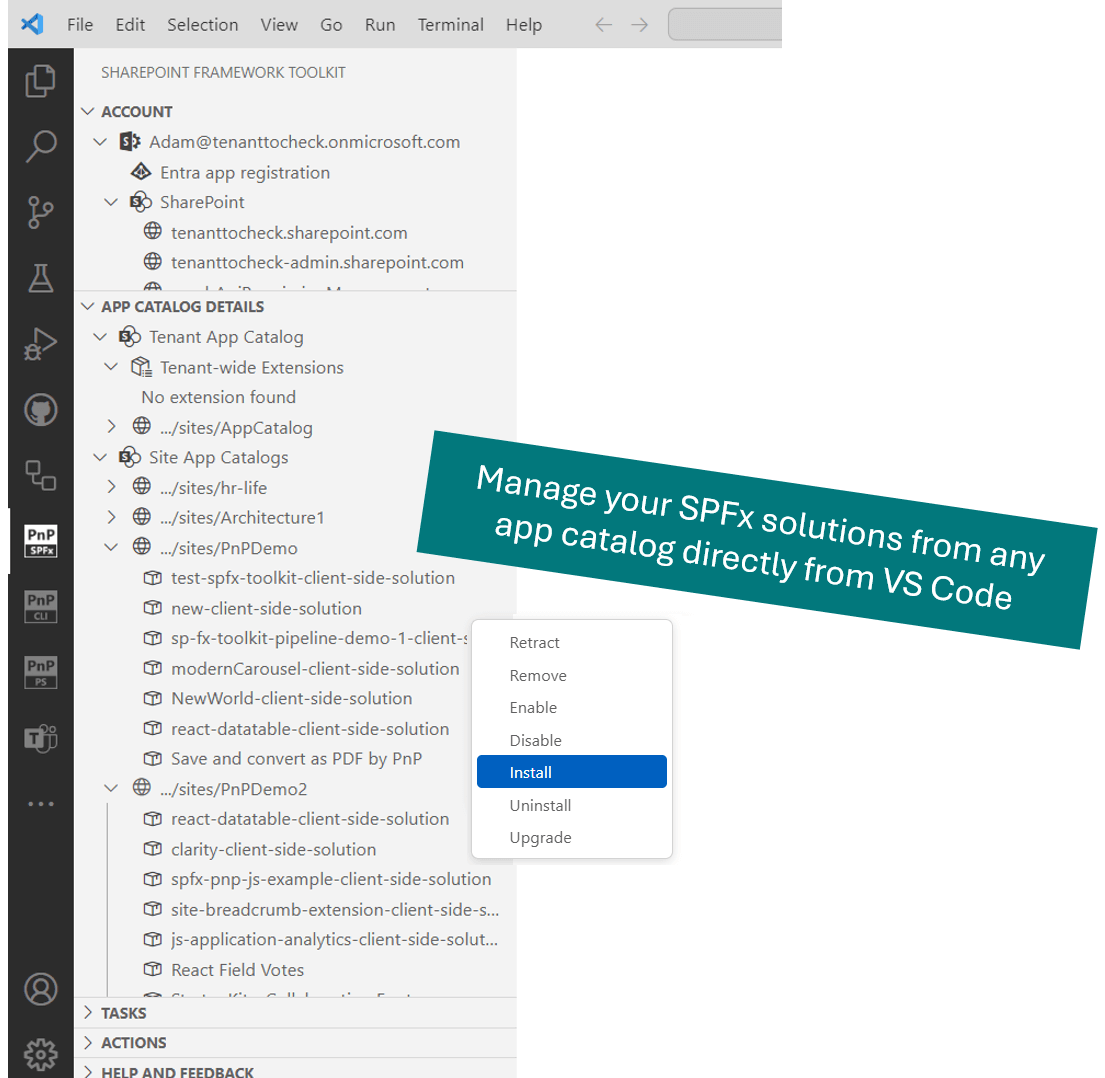
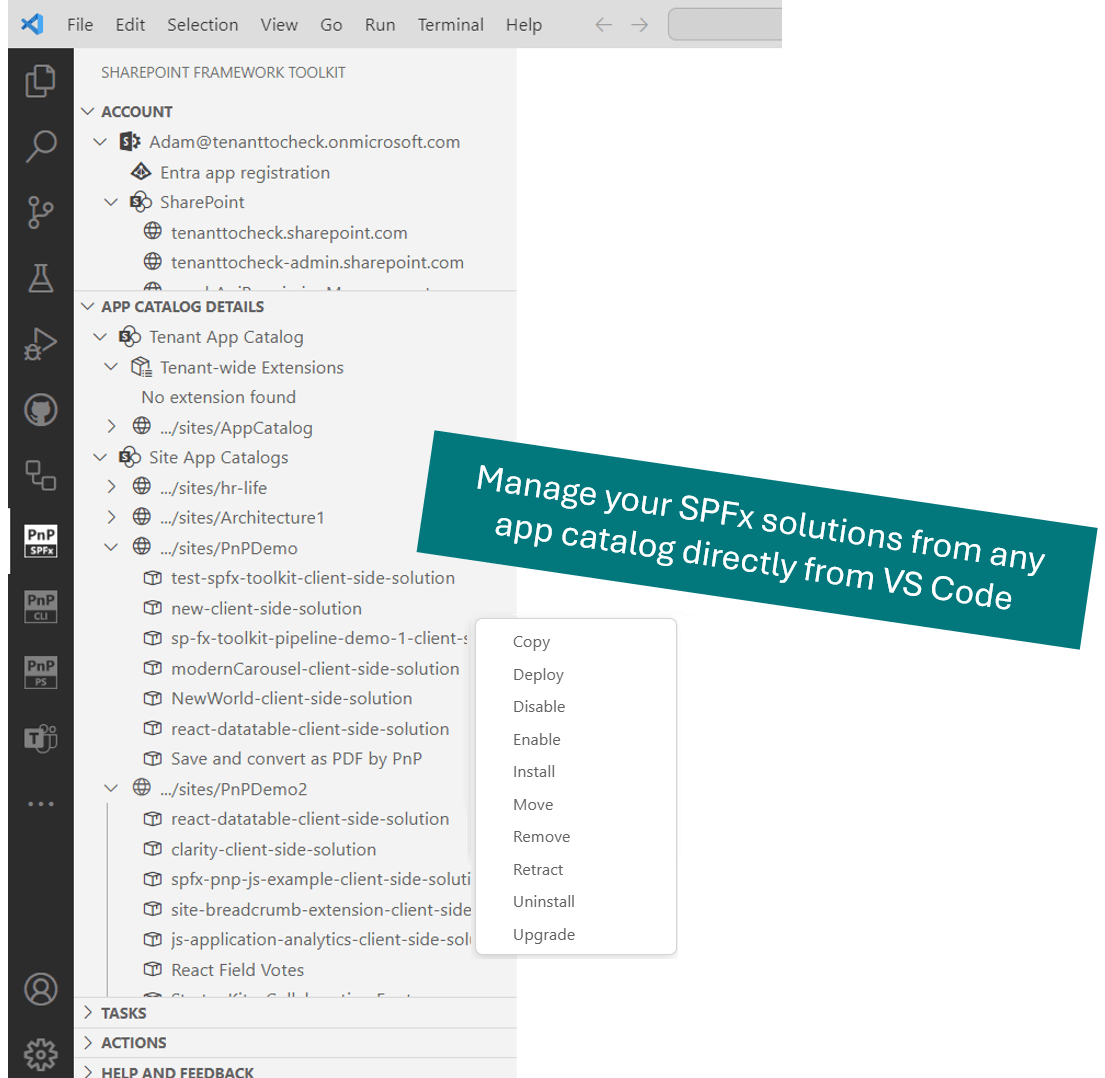
Updates documentation, readme and walkthrough

Changed region(s): [[0.4308, 0.5816, 0.6154, 0.8878]]

diff --git a/README.md b/README.md
@@ -163,6 +163,8 @@ You can expand each app catalog to reveal the list of apps contained within. Sel
 - **Install**: Install the solution from tenant or site collection app catalog to a site.
 - **Uninstall**: Uninstall the solution from a site.
 - **Upgrade**: Upgrades the solution to the latest version available in the app catalog for the specified site.
+- **Copy**: Copies the solution to a different app catalog.
+- **Move**: Moves the solution to a different app catalog.
 
 ![tenant details](./assets/images/app-catalog-list.png)
 

diff --git a/assets/walkthrough/tenant-details.md b/assets/walkthrough/tenant-details.md
@@ -32,6 +32,8 @@ After successful sign in, an additional view is presented that shows a list of l
 - **Upgrade**: Upgrades the solution to the latest version available in the app catalog for the specified site.
 - **Install**: Install the solution from tenant or site collection app catalog to a site.
 - **Uninstall**: Uninstall the solution from a site.
+- **Copy**: Copies the solution to a different app catalog.
+- **Move**: Moves the solution to a different app catalog.
 
 ![tenant details](../images/app-catalog-list.png)
 
